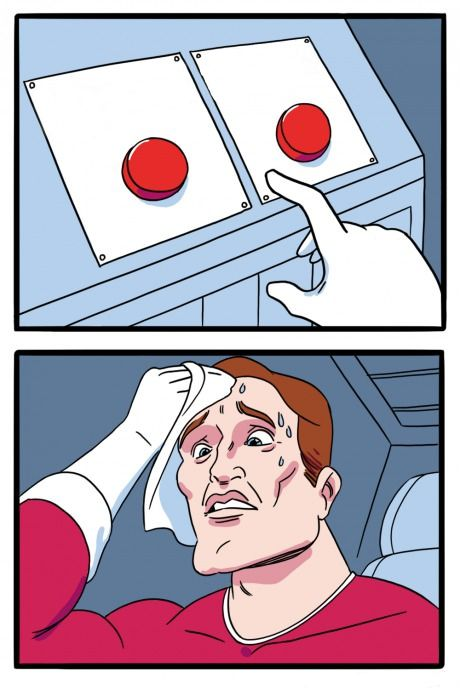
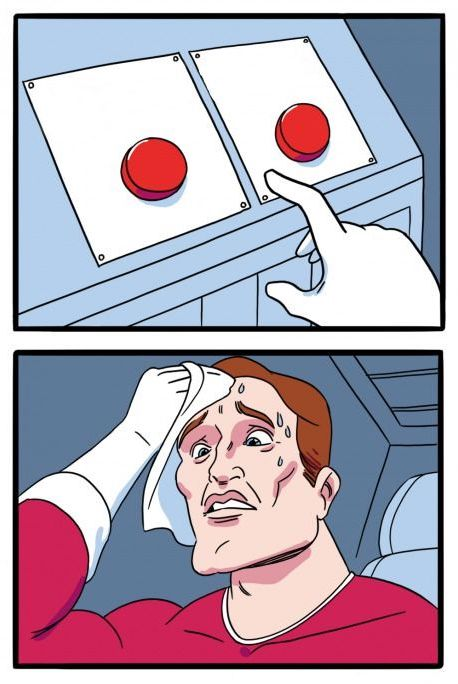
Increase default size to 600x600

diff --git a/app/settings.py b/app/settings.py
@@ -33,7 +33,7 @@ FONT = FONTS_DIRECTORY / "TitilliumWeb-Black.ttf"
 
 IMAGES_DIRECTORY = ROOT / "images"
 DEFAULT_EXT = "png"
-DEFAULT_SIZE = (500, 500)
+DEFAULT_SIZE = (600, 600)
 
 # Test images
 
